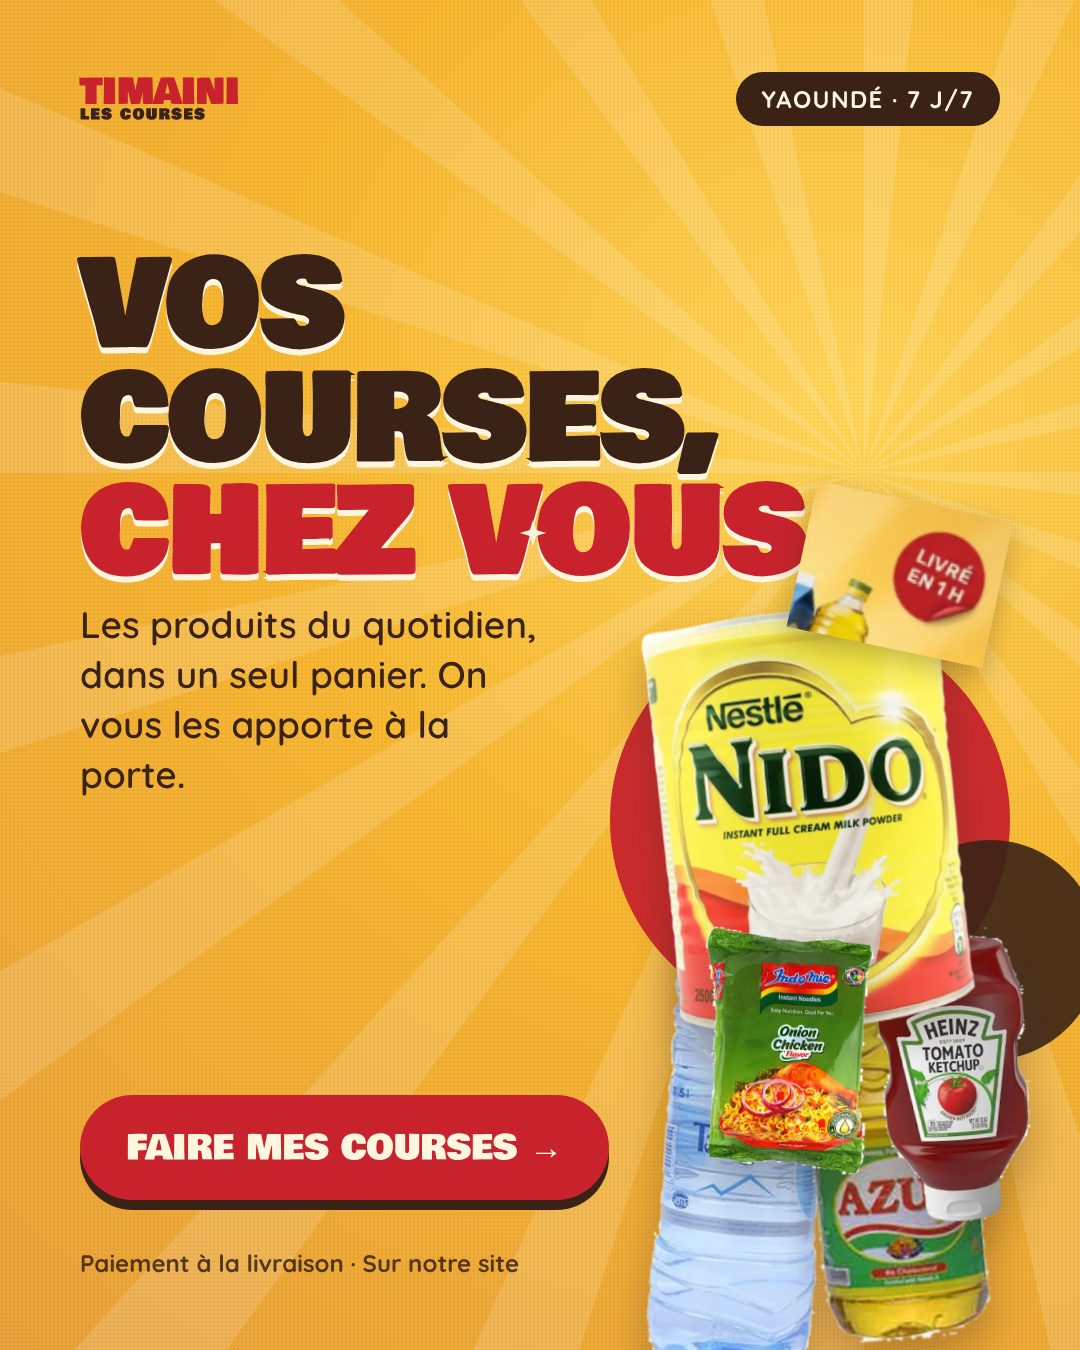
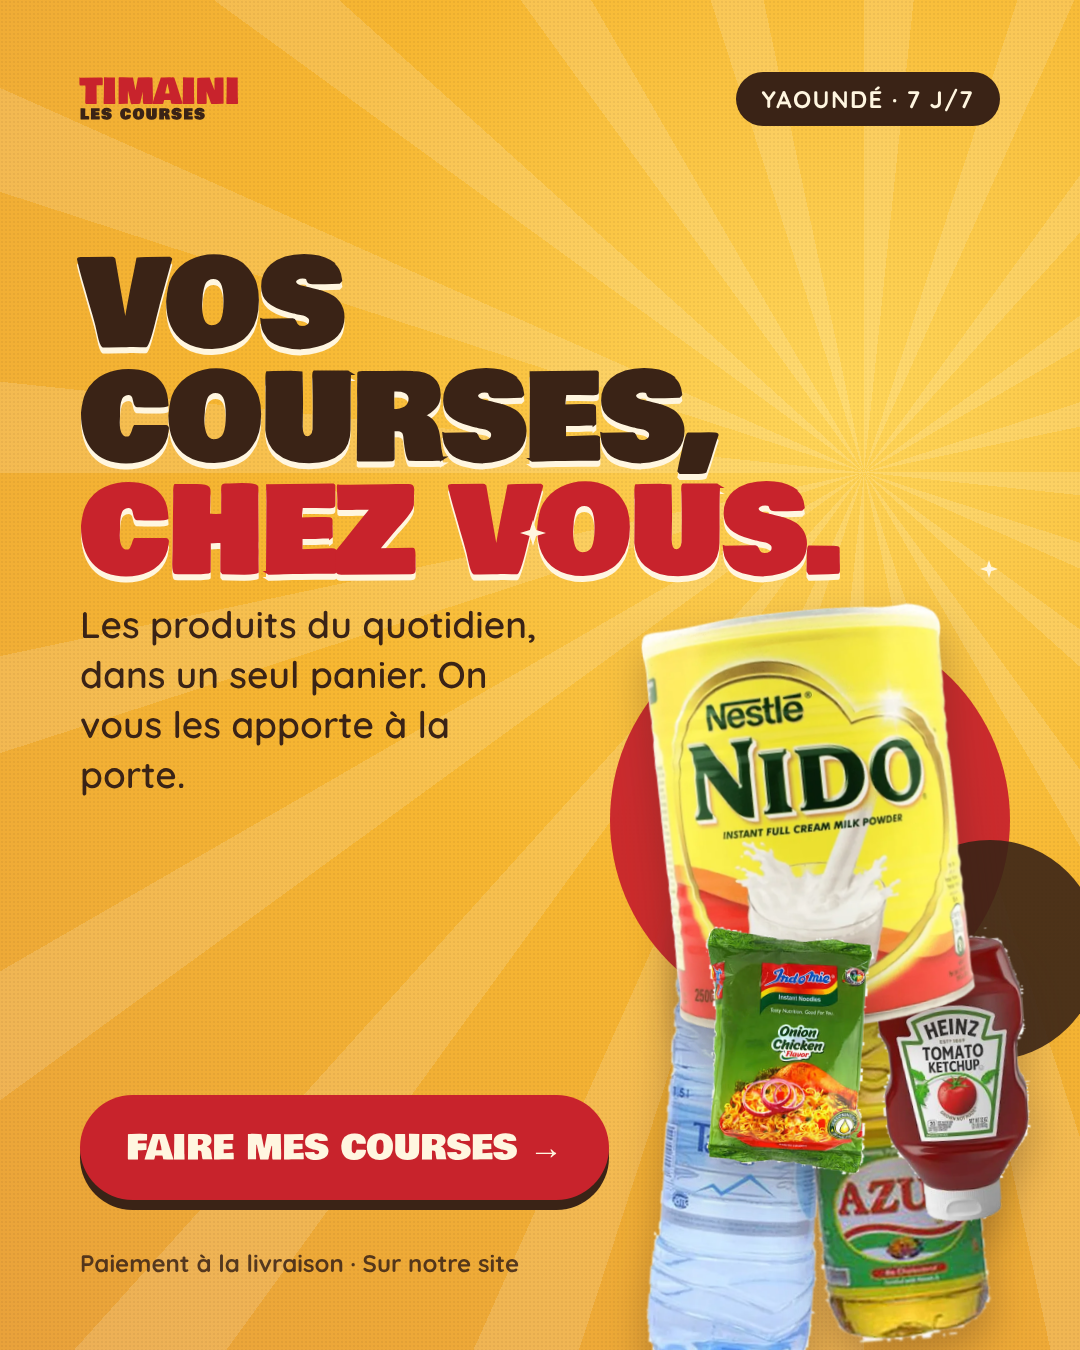
Creative 1: remove the 'livré en 1h' sticker (delivery time not promised yet)
Claude-Session: https://claude.ai/code/session_01XR5UA9nGqMd7JjqJ6NqGqM

Changed region(s): [[0.7333, 0.3422, 0.9472, 0.4978]]

diff --git a/livrables/creatives/1-vos-courses-chez-vous.html b/livrables/creatives/1-vos-courses-chez-vous.html
@@ -25,4 +25,4 @@ h1 em{font-style:normal;color:#C8232C;display:block}
 <body><div class="rays"></div><div class="grain"></div><div class="top"><div class="logo">Timaini<small>Les courses</small></div><div class="badge">Yaoundé · 7 j/7</div></div><h1>Vos courses,<em>chez vous.</em></h1>
     <p class="sub">Les produits du quotidien, dans un seul panier. On vous les apporte à la porte.</p>
     <div class="disc" style="left:610px;top:620px;width:400px;height:400px;background:#C8232C;opacity:.95"></div>
-    <div class="disc" style="left:880px;top:840px;width:220px;height:220px;background:#3A2316;opacity:.9"></div><img class="prod" src="assets/nido-boite-2-5kg.webp" style="left:660px;top:610px;width:300px;transform:rotate(-6deg);z-index:3"><img class="prod" src="assets/tangui-1-5l.webp" style="left:660px;top:800px;width:170px;transform:rotate(4deg);z-index:2"><img class="prod" src="assets/azur-huile-1l.webp" style="left:800px;top:760px;width:170px;transform:rotate(-5deg);z-index:2"><img class="prod" src="assets/indomie-oignon-poulet.webp" style="left:700px;top:930px;width:170px;transform:rotate(3deg);z-index:3"><img class="prod" src="assets/heinz-ketchup-907g.webp" style="left:880px;top:930px;width:150px;transform:rotate(-4deg);z-index:2"><img class="sticker" src="assets/sticker-livre-1h.png" style="left:800px;top:500px;width:200px;transform:rotate(12deg);z-index:6"><span class="spark" style="left:520px;top:520px"></span><span class="spark" style="left:980px;top:560px;width:18px;height:18px"></span><div class="cta">Faire mes courses →</div><div class="note">Paiement à la livraison · Sur notre site</div></body></html>
+    <div class="disc" style="left:880px;top:840px;width:220px;height:220px;background:#3A2316;opacity:.9"></div><img class="prod" src="assets/nido-boite-2-5kg.webp" style="left:660px;top:610px;width:300px;transform:rotate(-6deg);z-index:3"><img class="prod" src="assets/tangui-1-5l.webp" style="left:660px;top:800px;width:170px;transform:rotate(4deg);z-index:2"><img class="prod" src="assets/azur-huile-1l.webp" style="left:800px;top:760px;width:170px;transform:rotate(-5deg);z-index:2"><img class="prod" src="assets/indomie-oignon-poulet.webp" style="left:700px;top:930px;width:170px;transform:rotate(3deg);z-index:3"><img class="prod" src="assets/heinz-ketchup-907g.webp" style="left:880px;top:930px;width:150px;transform:rotate(-4deg);z-index:2"><span class="spark" style="left:520px;top:520px"></span><span class="spark" style="left:980px;top:560px;width:18px;height:18px"></span><div class="cta">Faire mes courses →</div><div class="note">Paiement à la livraison · Sur notre site</div></body></html>

diff --git a/outils/generer-creatives.py b/outils/generer-creatives.py
@@ -50,7 +50,6 @@ creatives["1-vos-courses-chez-vous"] = (
     + prod("azur-huile-1l.webp", 800, 760, 170, -5, 2)
     + prod("indomie-oignon-poulet.webp", 700, 930, 170, 3, 3)
     + prod("heinz-ketchup-907g.webp", 880, 930, 150, -4, 2)
-    + """<img class="sticker" src="assets/sticker-livre-1h.png" style="left:800px;top:500px;width:200px;transform:rotate(12deg);z-index:6">"""
     + """<span class="spark" style="left:520px;top:520px"></span><span class="spark" style="left:980px;top:560px;width:18px;height:18px"></span>"""
     + """<div class="cta">Faire mes courses →</div><div class="note">Paiement à la livraison · Sur notre site</div>"""
 )
